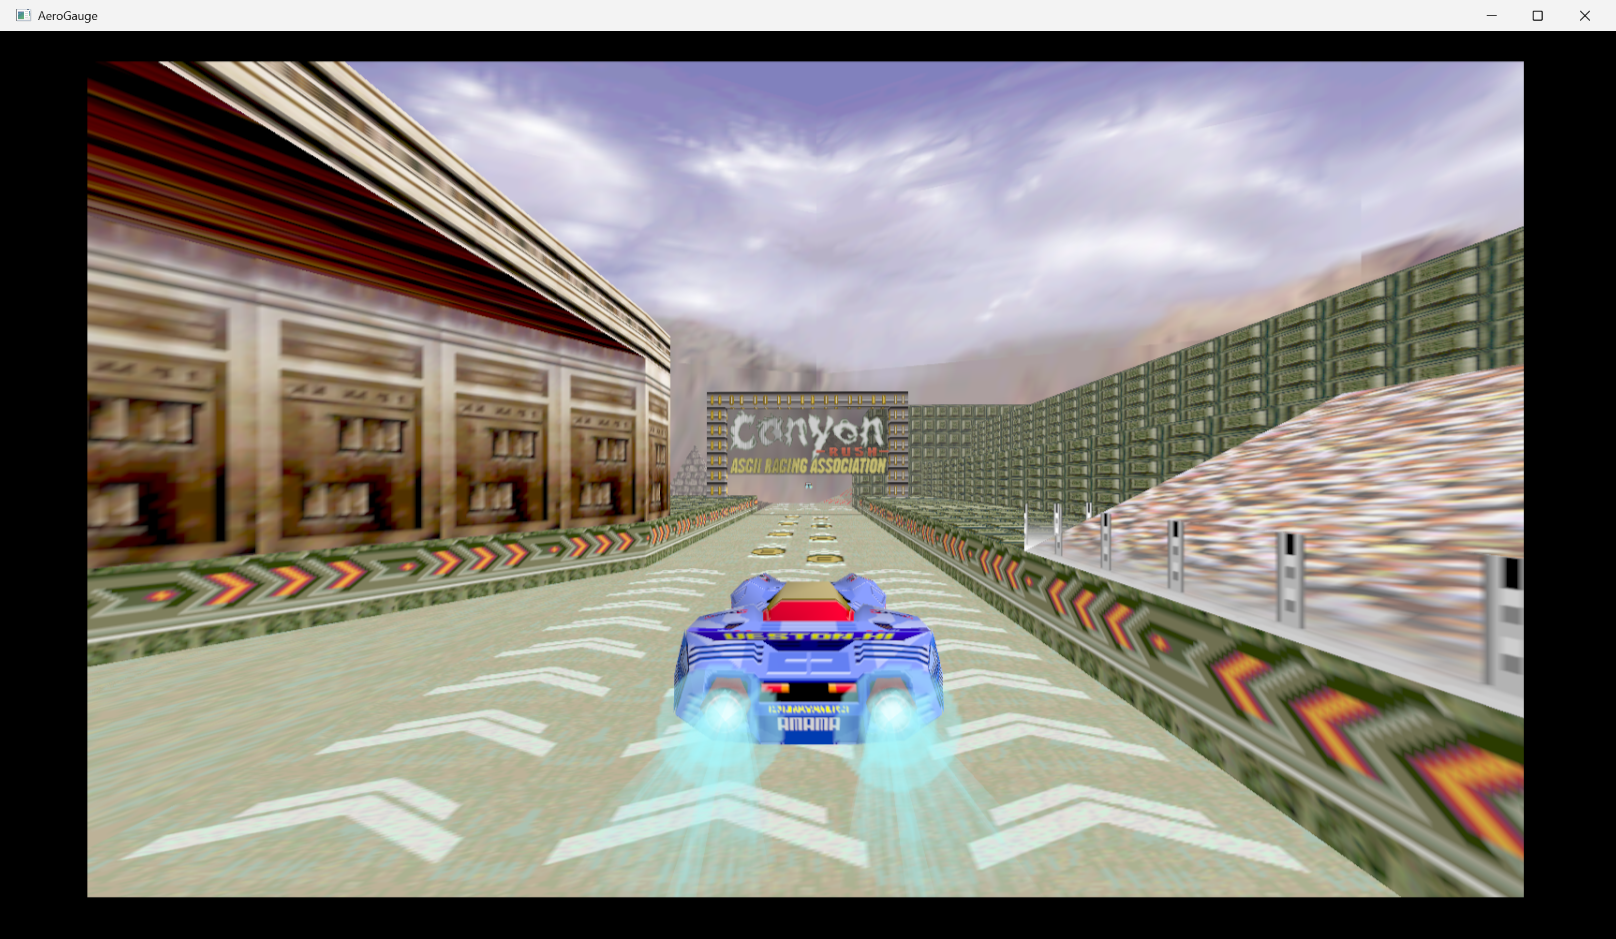
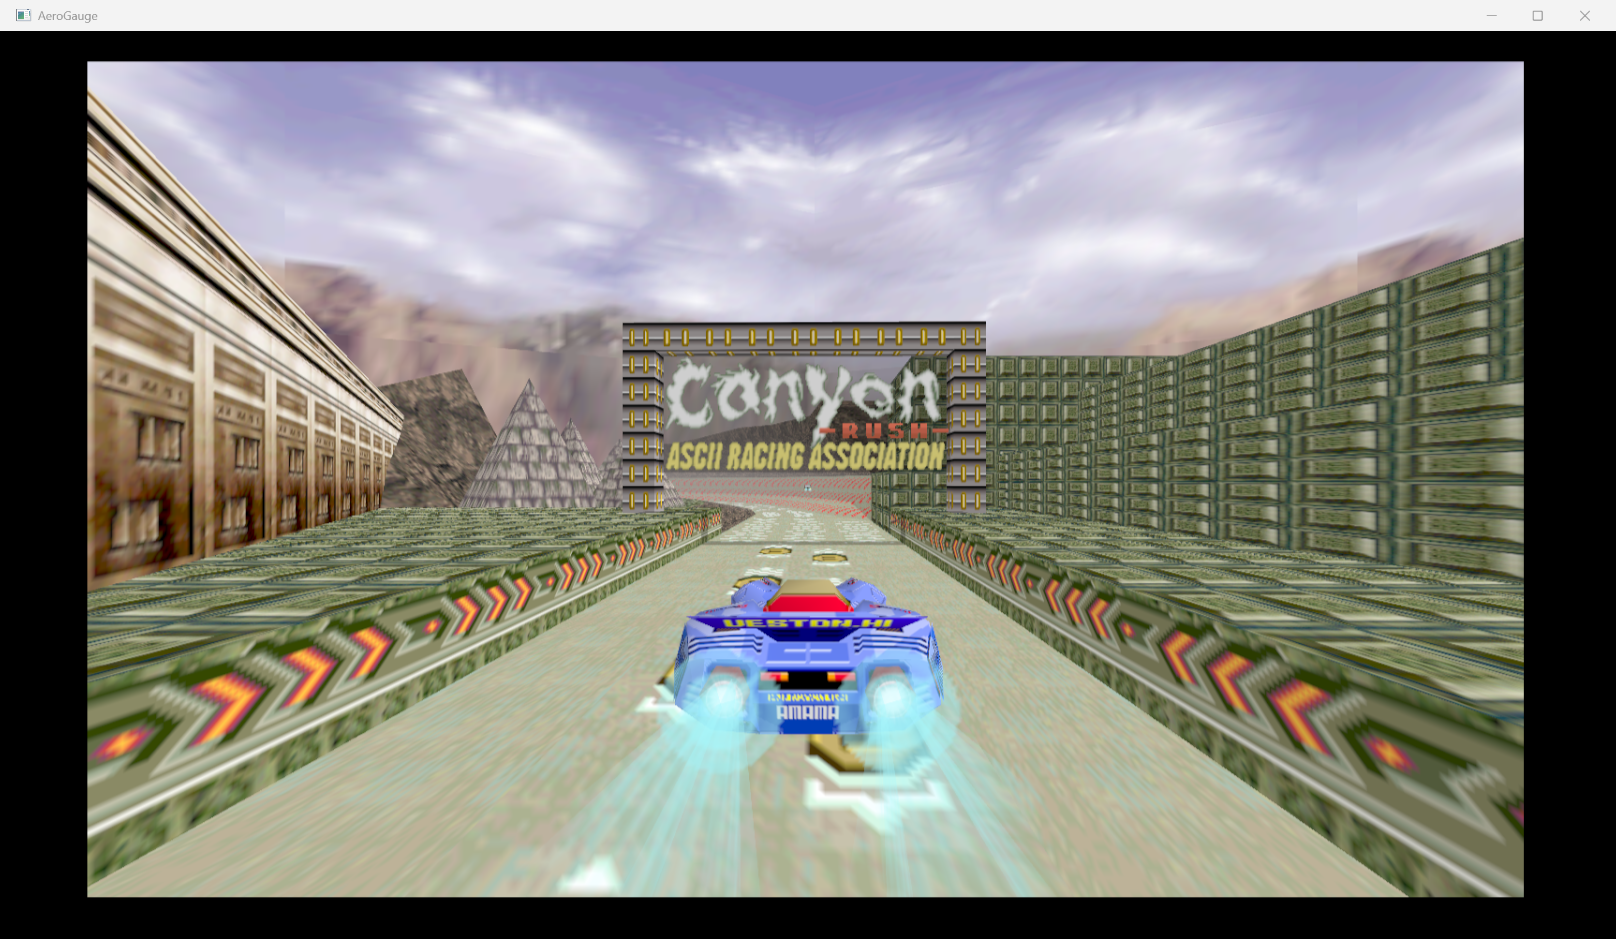
Default draw_distance_scale to 0 (infinite)
After first-round review of the draw-distance fix the user reported residual
pop-in: at the 50,000-unit default (scale=100), the fog band still hid
scenery from ~1000 units out, so what popped in was the gap between "fully
visible" and "fully fogged" -- still a hard visual edge, just further out.

Now that the user has confirmed the desired end-state ("much increased draw
distance" with explicit "we should be able to have an infinite draw distance"),
the default moves to 0 (infinite). The math: m22 -> -1, m32 -> -2*n, no clip
whatsoever. The closed-form identity was added to aero_draw_distance.h in the
prior patch; tests/test_draw_distance.cpp pass 4 pins it.

Trade-off documented in aero_draw_distance.h: even with an infinite far plane
the game's fog band (fm=25600 fo=-25344 => ndc_z [0.99, 1.0]) still hides
~1% of the depth buffer, so the fog fade is the new bottleneck. Widening
the fog requires finding the recompiled function that emits G_MW_FOG --
the G_MOVEWORD command word 0xBC000808 doesn't appear as a literal anywhere
in the disassembly (searched 2026-07-11, see header comment), so a follow-up
would either fork the RT64 GBI parser or hook osSpTaskLoad to rewrite DL
bytes. With this default the geometric pop-in is gone; the fog fade is the
next layer if you want it gone too.

Files:
- src/aero_config.cpp: g_draw_distance_scale default 100.0 -> 0.0
- src/aero_config.h: docstring reflects the new default
[…]

diff --git a/src/aero_draw_distance.h b/src/aero_draw_distance.h
@@ -18,8 +18,18 @@
 //   == 0.0f  infinite far plane -- m22 = -1, m32 = -2*n (no clip whatsoever;
 //             user's explicit "we should be able to have an infinite draw distance")
 //   == 1.0f  original game (500 unit far plane)
-//   >  1.0f  finite scaled far plane (e.g. 100.0f = 50,000 units, the default)
+//   >  1.0f  finite scaled far plane (e.g. 100.0f = 50,000 units; this still
+//             revealed fog-fade pop-in, so the default is now 0 instead)
 //   <  0 or == NaN  rejected by clamp; the original 500-unit plane is used
+//
+// KNOWN LIMITATION: even with an infinite far plane, the game's fog band
+// (fm=25600 fo=-25344 => ndc_z [0.99, 1.0]) still hides everything beyond
+// ~1% of the depth buffer, so distant scenery fades in via fog rather than
+// popping in geometrically. Widening the fog requires finding the recompiled
+// function that emits G_MW_FOG -- it's not surfaced as a literal in the
+// disassembly (searched 2026-07-11), so a follow-up would either fork the
+// RT64 GBI parser or hook osSpTaskLoad to rewrite the DL bytes. The infinite
+// far plane removes the geometric clip wall but doesn't address the fog fade.
 //
 // This header is the pure math core, host-includable with no recomp dependencies
 // (tests/test_draw_distance.cpp). src/aero_draw_distance.cpp wraps it as the

diff --git a/src/aero_config.h b/src/aero_config.h
@@ -65,9 +65,9 @@ bool widescreen_sky_match();
 
 // Far-clip-plane multiplier for the native guPerspectiveF (draw-distance
 // enhancement; see src/aero_draw_distance.h). graphics.json key
-// "draw_distance_scale" (default 100.0; 0.0 = infinite far plane,
-// 1.0 = the original game's 500-unit far plane, clamped to {0} U [1, 10000]),
-// overridable by AERO_DRAW_DISTANCE_SCALE=<float> for A/B capture runs.
+// "draw_distance_scale" (default 0.0 = infinite far plane, 1.0 = the original
+// game's 500-unit far plane, clamped to {0} U [1, 10000]), overridable by
+// AERO_DRAW_DISTANCE_SCALE=<float> for A/B capture runs.
 float draw_distance_scale();
 
 } // namespace config
